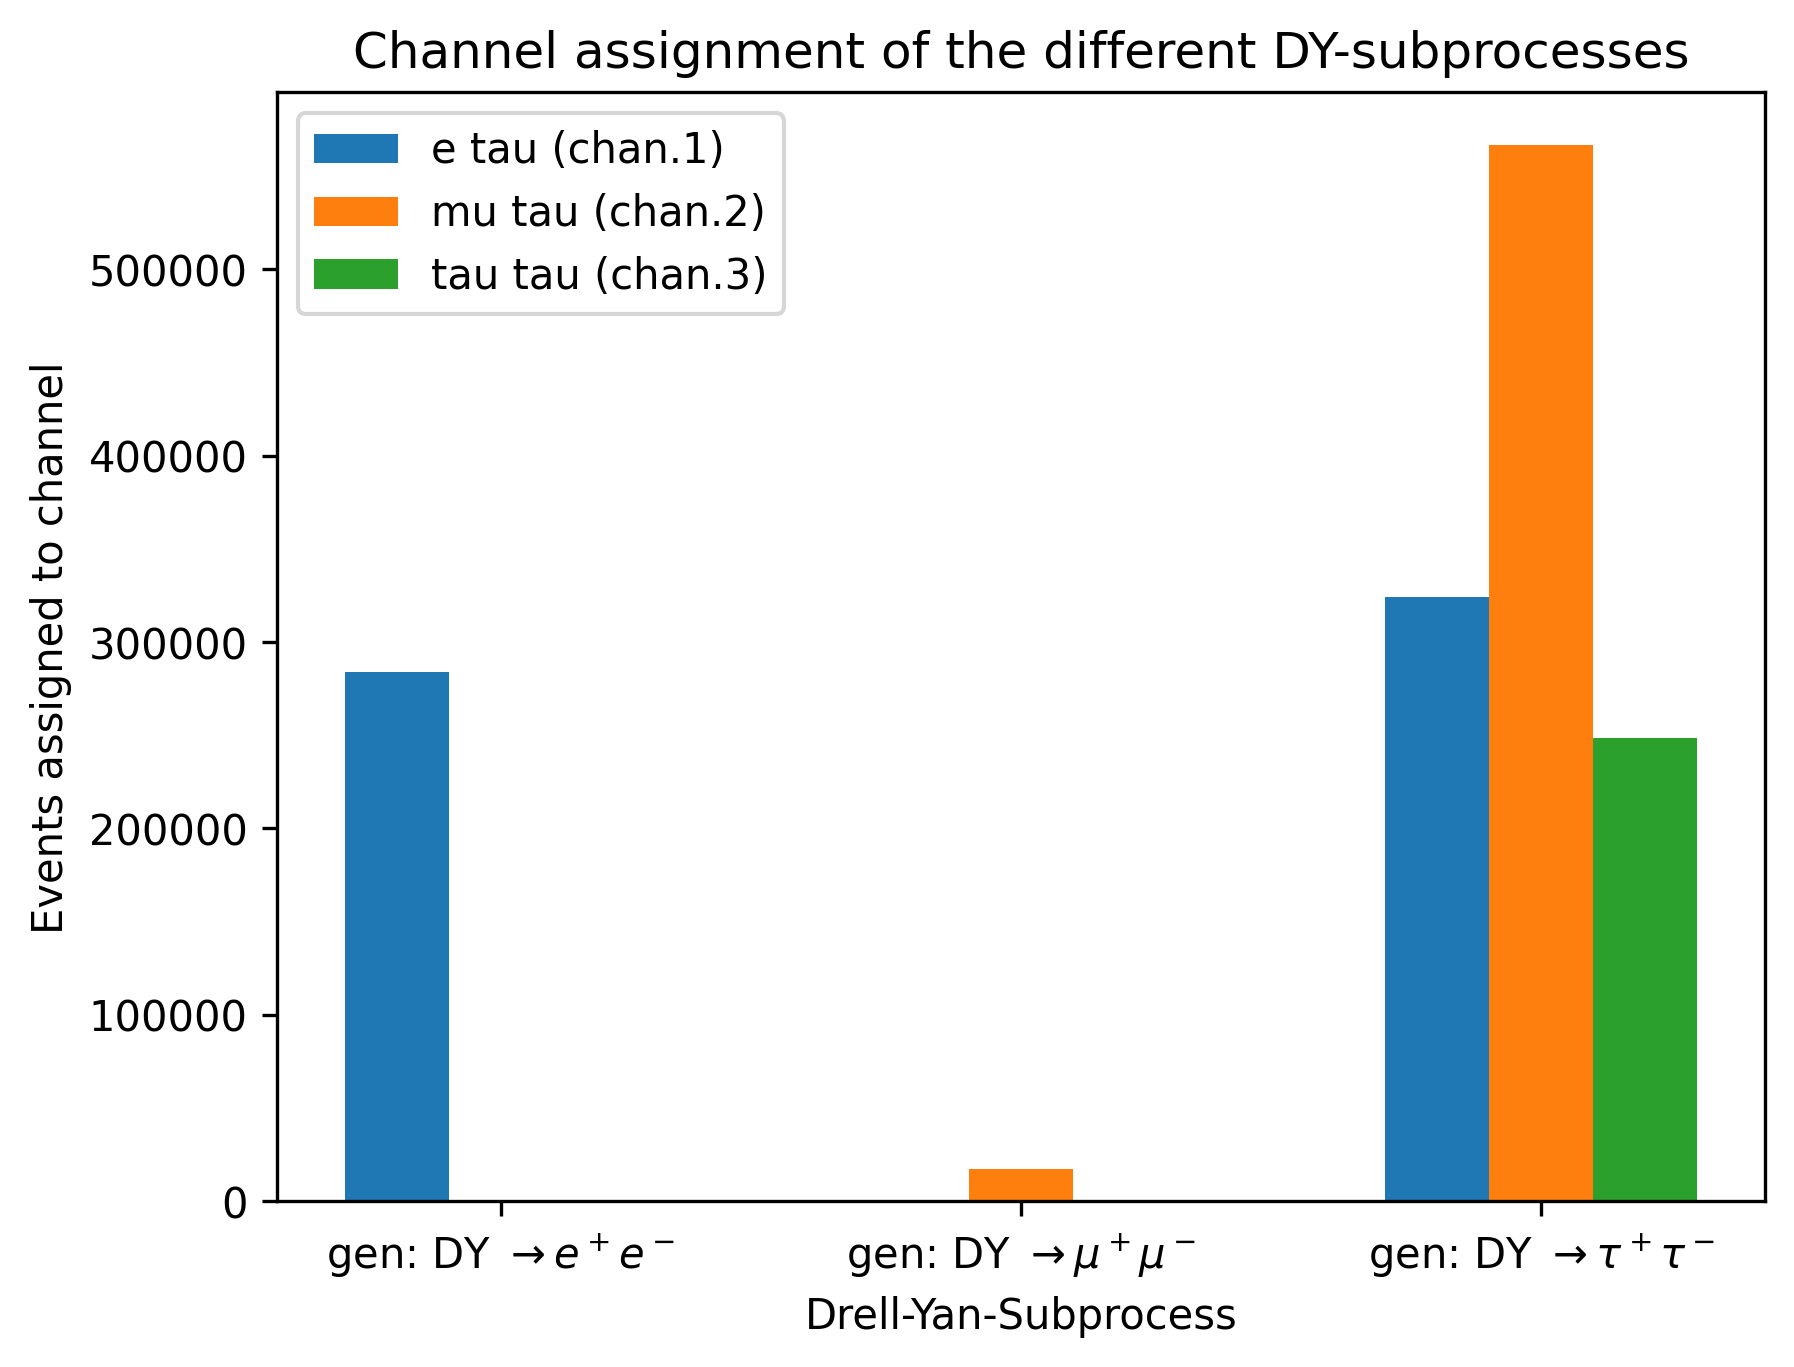
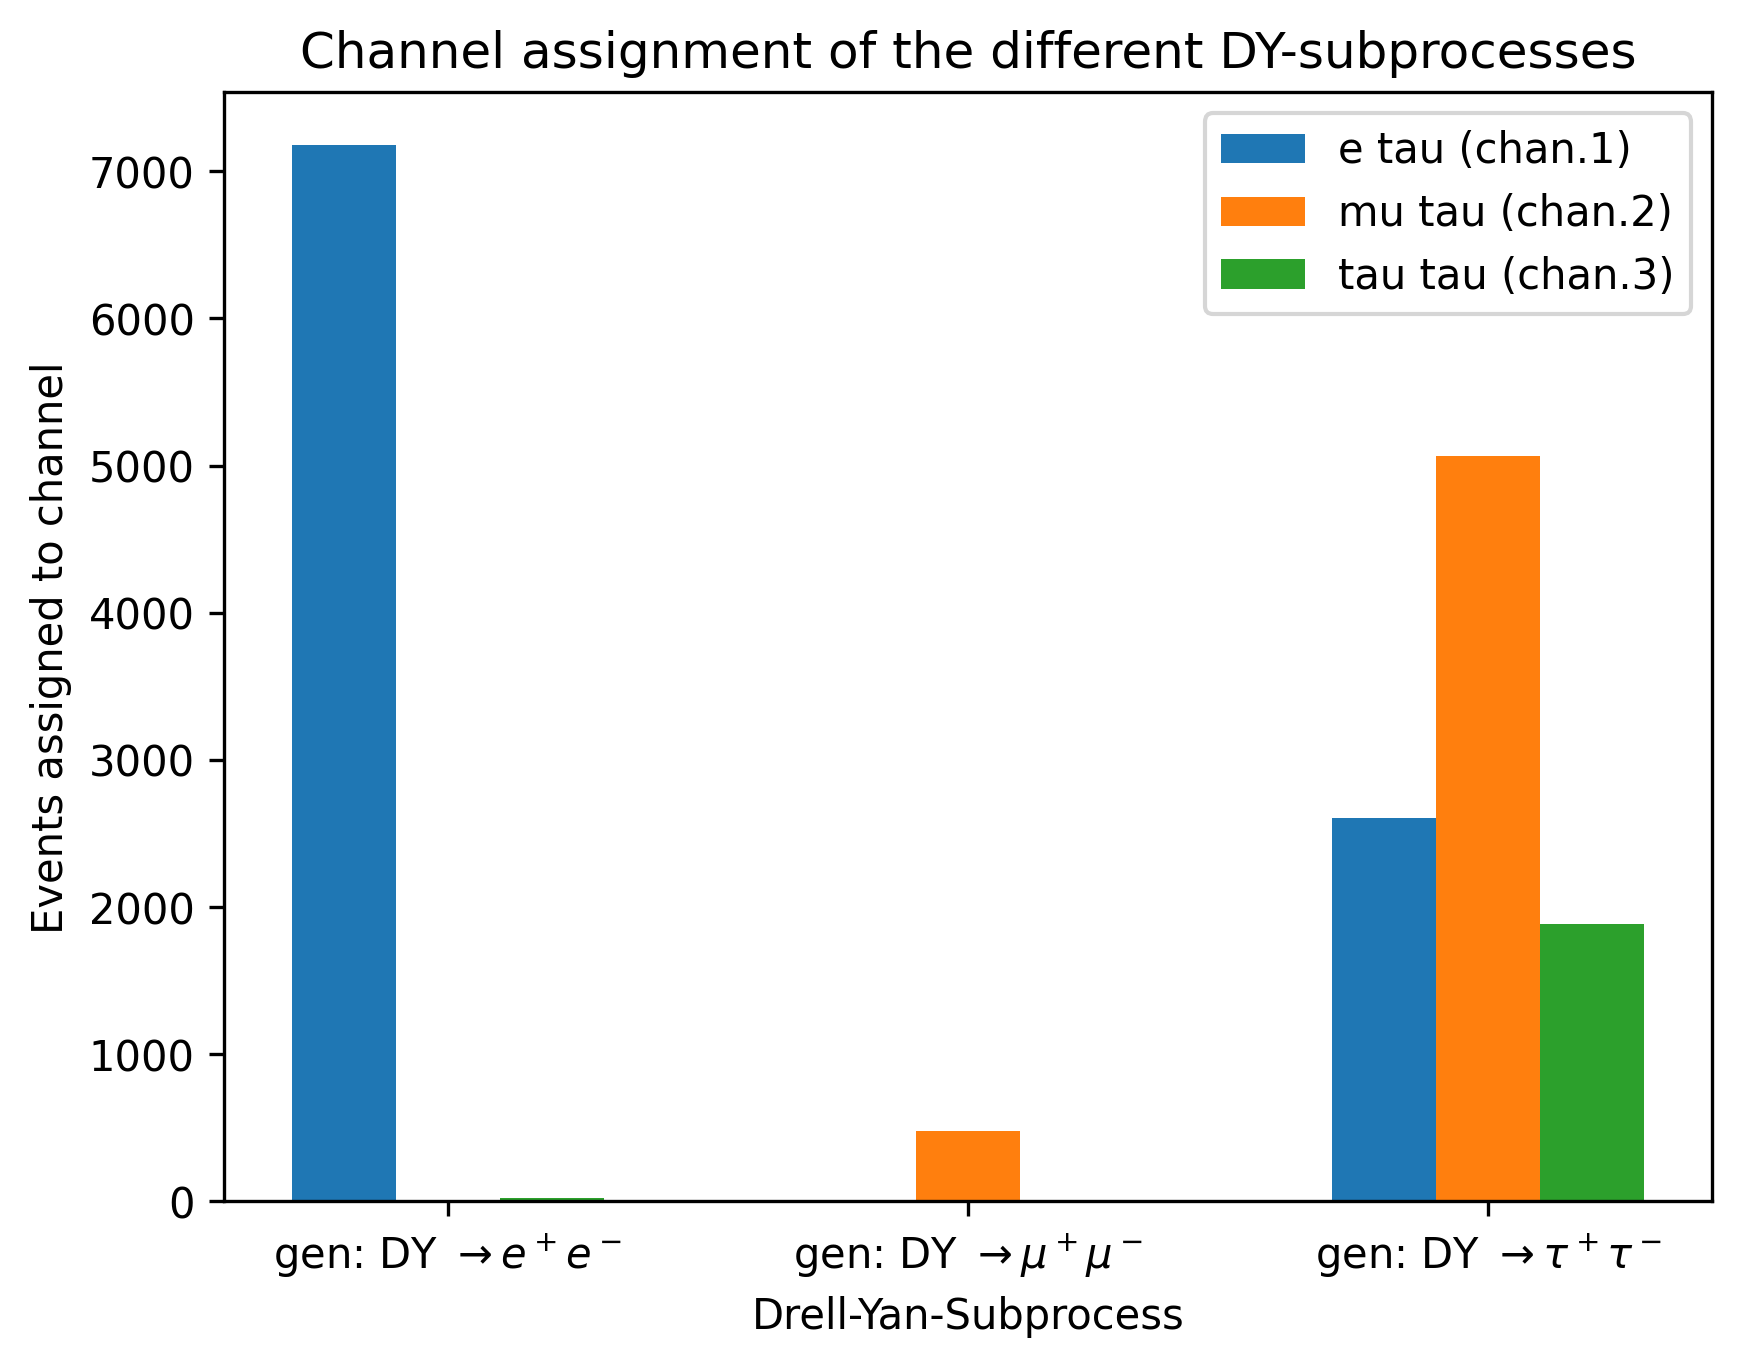
Fehler/Ungenauigkeit korrigiert: Eventweights werden beim grouped bar chart jetzt berücksichtigt (minimaler Unterschied)

diff --git a/plot_DNN_output.py b/plot_DNN_output.py
@@ -124,7 +124,7 @@ for i in [1,2,3]: #i steht für den channel
     #Channel arrays mit information füllen
     for channel in [1,2,3]:
         for Zerfallskanal in [11,13,15]:
-            dictionary[f"channel_{channel}"]=np.append(dictionary[f"channel_{channel}"],len(events_dy.run3_dnn_moe_hh[(events_dy.channel_id == channel) & (events_dy.gen_ll_pdgid == Zerfallskanal)]))
+            dictionary[f"channel_{channel}"]=np.append(dictionary[f"channel_{channel}"],np.sum(events_dy.event_weight[(events_dy.channel_id == channel) & (events_dy.gen_ll_pdgid == Zerfallskanal)]))
 
     x = np.arange(len(categories))  # Positionen der Gruppen    
     width = 0.2  # Breite der einzelnen Balken
@@ -161,3 +161,6 @@ for i in [1,2,3]: #i steht für den channel
 #channel zuordnungen 1: e tau, 2: mu tau, 3: tau tau
 
 
+#weights hinzugefügt
+#tau tau weiter unterteilen (in e,mu,hadronisch für beide tau)
+#Weights für events_dy.run3_dnn_moe_hh  :  events_dy.event_weight
